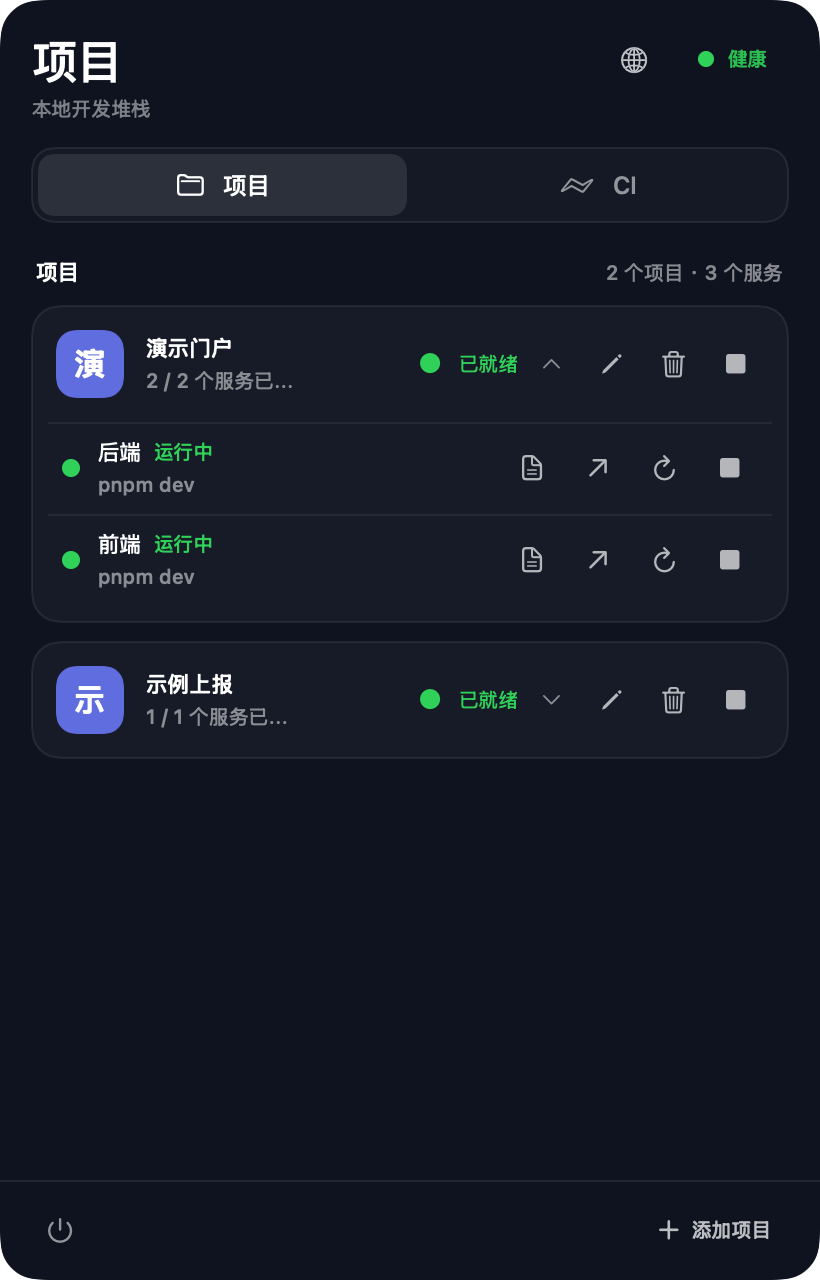
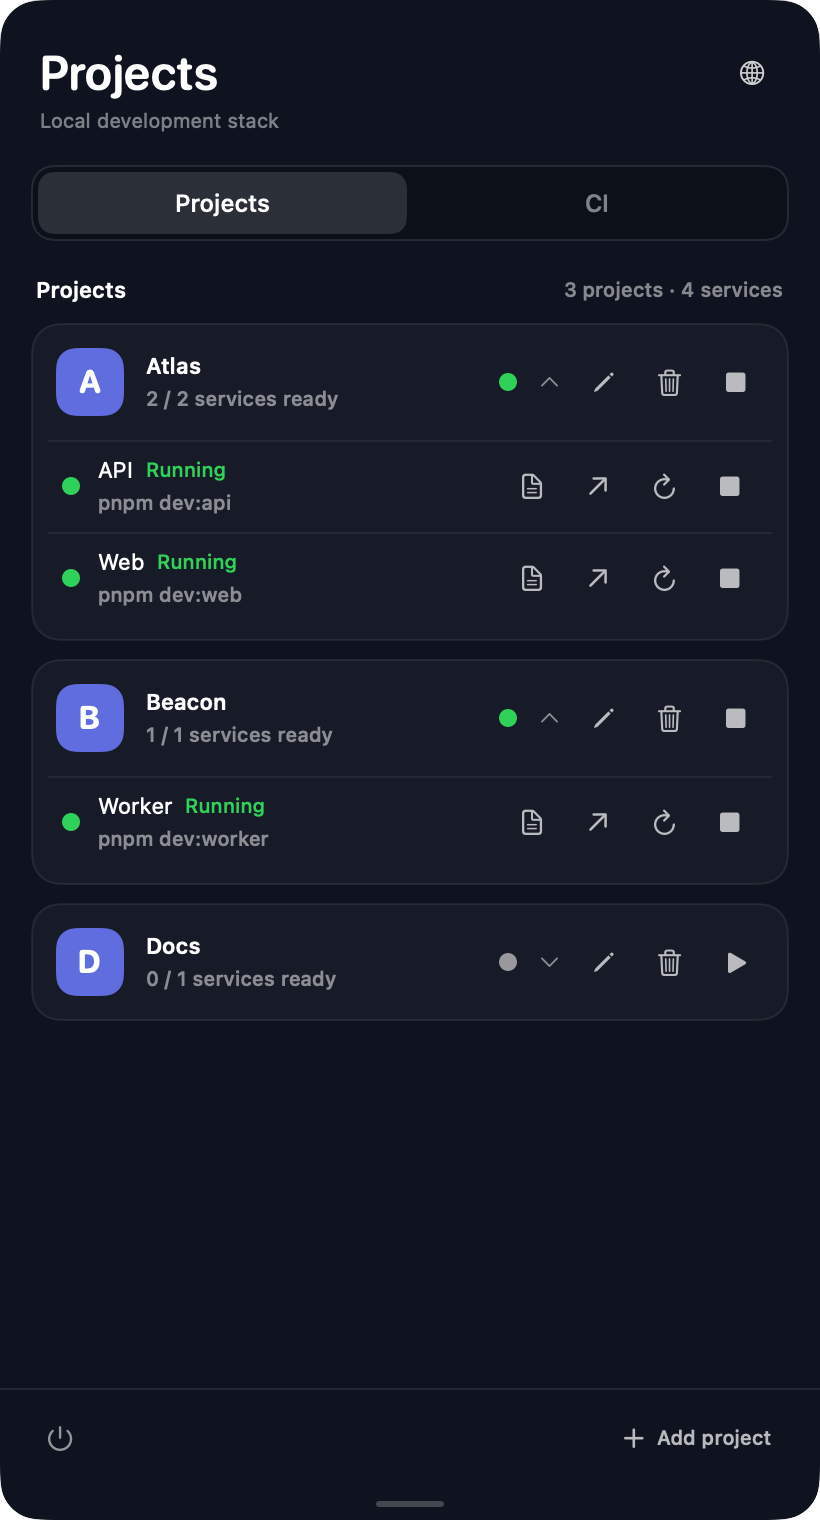
docs: streamline bilingual readmes and refresh English screenshots

diff --git a/README.md b/README.md
@@ -1,106 +1,52 @@
 # StackHub
 
-> 把本地开发服务和 CI 流水线集中到 macOS 菜单栏。
+**English** | [简体中文](README.zh-CN.md)
 
-StackHub 是一款原生 SwiftUI 菜单栏应用：在一个小面板中管理本地项目的启动、停止、重启和日志，同时查看 GitHub Actions 与 GitLab CI 的流水线状态。
+StackHub is a native macOS menu bar app built with SwiftUI. Run commands and shell scripts, manage local services, and monitor GitHub Actions and GitLab CI from one panel.
 
-## 界面预览
+## Screenshots
 
-### 本地项目与服务
+<table>
+  <tr>
+    <th>Local projects and services</th>
+    <th>CI activity</th>
+    <th>Full-panel service logs</th>
+  </tr>
+  <tr>
+    <td width="33%" valign="top"><img src="docs/screenshots/projects-sanitized.png" alt="Project and service overview with sample data" width="100%"></td>
+    <td width="33%" valign="top"><img src="docs/screenshots/ci-sanitized.png" alt="GitHub Actions and GitLab CI activity with sample data" width="100%"></td>
+    <td width="33%" valign="top"><img src="docs/screenshots/logs-sanitized.png" alt="Service logs with sample data" width="100%"></td>
+  </tr>
+</table>
 
-![项目服务总览（示例数据）](docs/screenshots/projects-sanitized.png)
+*English interface with sample data.*
 
-### 全屏运行日志
+## Features
 
-![运行日志（示例数据）](docs/screenshots/logs-sanitized.png)
+- **Local services** — Start, stop, and restart project services with custom commands, working directories, and ports.
+- **Live logs** — View service output with ANSI colors in a dedicated log view.
+- **CI monitoring** — Follow GitHub Actions and multiple GitLab instances. Each refreshes independently and keeps cached results when offline.
+- **Secure credentials** — Store GitHub and GitLab tokens in macOS Keychain.
+- **In-app updates** — Check for updates hourly. Click the blue download icon when an update is available to install and restart.
+- **Bilingual interface** — Switch between English and Simplified Chinese.
 
-以上截图均使用虚构的项目名、目录、端口和地址，不包含 Token、真实路径或生产日志。
+## Install
 
-## 功能
+Requires **macOS 14 or later**. Release downloads are for **Apple Silicon**.
 
-- 菜单栏原生面板，支持拖动调整高度并记住尺寸。
-- 为每个本地项目配置工作目录、服务、启动命令、访问地址和一个或多个 TCP 端口。
-- 启动前只释放明确配置的端口；支持以英文逗号分隔多个端口，例如 `3000, 5173`。
-- 服务启停、重启、自动读取 stdout/stderr；检测到错误日志时标记为警告而非“健康”。
-- ANSI 彩色日志、全屏日志页面、`Esc` 或“返回”关闭日志／编辑页面。
-- 支持简体中文与英文，可在主面板右上角随时切换；语言偏好保存在本机。
-- 项目页直接添加、编辑和移除本地项目；CI 页直接管理 GitHub 授权和 GitLab 实例，无独立设置页。
-- GitHub Actions 支持浏览器 Device Flow OAuth 和增量仓库同步；GitLab 支持多个实例及完整发现。
-- GitHub 流水线状态独立于仓库更新时间刷新：每轮检查当前范围内最多 8 个仓库，优先检查有运行中任务的仓库，及时同步完成状态和重新运行。
-- GitHub 与各 GitLab 实例独立刷新，结果完成即显示；离线实例保留缓存，不阻塞其他实例。请求超时为 3 秒，首次连接失败后停止本轮后续请求，自动重试间隔从 1 分钟逐步延长至最多 5 分钟；点击刷新可立即重试。
-- CI 凭据保存在 macOS 钥匙串的单一加密凭据包中；旧版独立条目在首次实际使用时按需迁移。
-- 使用 Sparkle 检查 GitHub Release：启动时及每小时检查一次；发现新版仅在右上角显示小蓝色下载按钮，点击后下载、校验、安装并重启。
+1. Download the ZIP from [GitHub Releases](https://github.com/chenbstack/StackHub/releases/latest).
+2. Extract it and move `StackHub.app` to Applications.
+3. Launch StackHub and click its menu bar icon. Add local services in **Projects**, or connect GitHub and GitLab in **CI**.
 
-## 运行
+Configured ports are freed before a service starts; use only ports belonging to that service. Quitting or installing an update stops managed services; start them again when needed.
 
-要求 macOS 14 或更高版本，以及 Swift 5.9 或更高版本。
+## Build from source
+
+Requires Xcode and Swift 5.9 or later.
 
 ```bash
 cd swift-prototype
-swift build
 swift run StackHub
 ```
 
-也可以用 Xcode 打开 [swift-prototype/Package.swift](swift-prototype/Package.swift)。
-
-## 使用方式
-
-1. 点击菜单栏的 StackHub 图标，进入“项目”页。
-2. 点击“添加项目”，填写项目工作目录、服务命令和可选端口。
-3. 在项目卡片中启动、停止或重启服务；点击文档图标进入日志。
-4. 切换至“CI”，连接 GitHub 或添加 GitLab 实例，然后查看、关注和刷新流水线。
-
-### 端口处理
-
-端口字段留空时，StackHub 不会检查或终止任何进程。填写端口后，启动服务前会确认监听进程并先尝试正常终止；仍被占用时才强制结束。请只填写属于该服务的端口。
-
-### 凭据与授权
-
-StackHub 不将 Token 写进项目配置、日志或 `UserDefaults`。GitHub access/refresh token 与 GitLab Token 统一保存在钥匙串的 `ci.credentials.v1` 条目中。
-
-从旧版本升级后，已有的独立凭据会在对应 GitHub 或 GitLab 账号首次刷新时迁入该条目；迁移完成后不再读取旧项。
-
-## 项目结构
-
-```text
-swift-prototype/
-├── Sources/                  # SwiftUI 应用与 CI、本地服务逻辑
-├── Tests/                    # 单元测试
-├── Package.swift             # Swift Package Manager 清单
-└── dist/StackHub.app         # 本地构建的应用包（不提交）
-docs/
-└── screenshots/              # README 脱敏示例图
-```
-
-## 构建发布包
-
-```bash
-cd swift-prototype
-swift build -c release
-```
-
-应用包还需要嵌入 Sparkle.framework 及其安装辅助程序。请在仓库根目录使用统一打包脚本，输出目录应为空：
-
-```bash
-bash scripts/package-app.sh 1.0.3 /tmp/stackhub-release-1.0.3
-```
-
-命令行工具链缺少 SwiftUI 插件时，在命令前加 `DEVELOPER_DIR=/Applications/Xcode.app/Contents/Developer`。
-
-### 自动更新发布
-
-- [Sparkle 2.10.0](https://sparkle-project.org/documentation/) 已锁定在 `Package.resolved`；应用使用自定义用户界面，仅显示面板按钮，不弹出后台更新通知。
-- 语言和下载按钮默认透明，悬停或按下时显示底色。下载过程中显示进度，失败后可重试。
-- 更新源为 [GitHub Release 的 appcast.xml](https://github.com/chenbstack/StackHub/releases/latest/download/appcast.xml)。没有更新或索引暂不可用时，不显示按钮。
-- `SUEnableAutomaticChecks=true`、`SUScheduledCheckInterval=3600`；禁止后台自动下载，不发送系统配置统计。
-- 更新包和索引使用 Ed25519 签名，公钥嵌入 `Packaging/Info.plist`。本机私钥由 Sparkle 保存在钥匙串账号 `com.stackhub.prototype.updates` 中，私钥不能提交到仓库。
-- GitHub Actions 需要仓库 Secret `SPARKLE_PRIVATE_KEY`。发布流程打包框架、使用版本号设置 `CFBundleVersion`、签名 ZIP 与 appcast，然后将两者上传至同一 Release。预发布使用 beta channel，不进入默认稳定版更新源。
-- 旧 Release 没有更新索引；首次发布包含上述流程的新版后，GitHub 更新源才会可用。尚未内置 Sparkle 的旧应用需要手动安装一次新版。
-- 点击更新后的重启会经过应用正常退出流程，停止 StackHub 管理的本地服务；重新打开后不会自动启动这些服务。
-
-本机生成更新索引时，可直接使用钥匙串签名，无需导出私钥：
-
-```bash
-ditto -c -k --sequesterRsrc --keepParent /tmp/stackhub-release-1.0.3/StackHub.app /tmp/stackhub-release-1.0.3/StackHub-1.0.3-macos-arm64.zip
-bash scripts/generate-update-feed.sh 1.0.3 /tmp/stackhub-release-1.0.3
-```
+To build an app bundle, use [scripts/package-app.sh](scripts/package-app.sh).

diff --git a/README.zh-CN.md b/README.zh-CN.md
@@ -1,0 +1,52 @@
+# StackHub
+
+[English](README.md) | **简体中文**
+
+StackHub 是一款使用 SwiftUI 构建的原生 macOS 菜单栏应用，将命令执行、Shell 脚本运行、本地服务与进程管理，以及 GitHub Actions、GitLab CI 流水线监控集中在一个面板中。
+
+## 界面预览
+
+<table>
+  <tr>
+    <th>本地项目与服务</th>
+    <th>CI 活动</th>
+    <th>全屏运行日志</th>
+  </tr>
+  <tr>
+    <td width="33%" valign="top"><img src="docs/screenshots/projects-sanitized.png" alt="项目服务总览（示例数据）" width="100%"></td>
+    <td width="33%" valign="top"><img src="docs/screenshots/ci-sanitized.png" alt="GitHub Actions 与 GitLab CI 活动（示例数据）" width="100%"></td>
+    <td width="33%" valign="top"><img src="docs/screenshots/logs-sanitized.png" alt="运行日志（示例数据）" width="100%"></td>
+  </tr>
+</table>
+
+*英文版界面，使用示例数据。*
+
+## 功能
+
+- **本地服务** — 启动、停止和重启项目服务，自定义命令、工作目录和端口。
+- **实时日志** — 在独立日志页面查看服务输出，支持 ANSI 彩色日志。
+- **CI 监控** — 关注 GitHub Actions 与多个 GitLab 实例，各自独立刷新，离线时保留缓存。
+- **凭据保护** — GitHub 和 GitLab Token 保存在 macOS 钥匙串中。
+- **应用内更新** — 每小时检查更新，有新版时点击蓝色下载图标即可安装并重启。
+- **双语界面** — 支持简体中文和英文切换。
+
+## 安装
+
+需要 **macOS 14 或更高版本**，发布包适用于 **Apple Silicon**。
+
+1. 从 [GitHub Releases](https://github.com/chenbstack/StackHub/releases/latest) 下载 ZIP。
+2. 解压后将 `StackHub.app` 移入“应用程序”。
+3. 启动并点击菜单栏图标，在“项目”中添加本地服务，或在“CI”中连接 GitHub 和 GitLab。
+
+配置的端口会在服务启动前释放，请只填写属于该服务的端口。退出或安装更新会停止托管服务，需要时请重新启动服务。
+
+## 从源码运行
+
+需要 Xcode 和 Swift 5.9 或更高版本。
+
+```bash
+cd swift-prototype
+swift run StackHub
+```
+
+构建应用包可使用 [scripts/package-app.sh](scripts/package-app.sh)。

diff --git a/docs/releases/v1.0.7.md b/docs/releases/v1.0.7.md
@@ -1,0 +1,21 @@
+## 修复
+
+- 修复更新失败弹窗的确认按钮无法正常点击的问题：面板为原生弹窗保留显示层级，并将弹窗、子窗口的点击识别为面板内交互。
+- 原生弹窗打开时，点击面板外部或菜单栏图标不会提前隐藏弹窗所在的面板；关闭弹窗后恢复正常的外部点击收起行为。
+- 修复英文日志页的 Back 按钮和 Running 状态文字换行，调整标题栏间距。
+
+## 文档
+
+- README 默认使用英文，提供简体中文版本链接，并精简为核心功能、安装和源码运行说明。
+- 更新项目、CI、日志三张英文界面示例截图，以三列并排展示。
+
+## 验证
+
+- 61 项测试通过，包含弹窗、嵌套子窗口、应用模态窗口以及关闭弹窗后恢复外部点击收起的回归检查。
+- 已使用当前 SwiftUI 界面渲染并检查英文示例截图；真实弹窗的鼠标点击仍需实际使用确认。
+
+## 更新
+
+- 支持 Sparkle 的已安装版本可使用面板右上角的蓝色下载按钮更新并重启。
+- 手动安装：下载 `StackHub-1.0.7-macos-arm64.zip`，解压后将 `StackHub.app` 放入“应用程序”。适用于 Apple Silicon 和 macOS 14 及以上。
+- 更新重启会停止 StackHub 管理的本地服务，重新打开后需按需启动服务。
